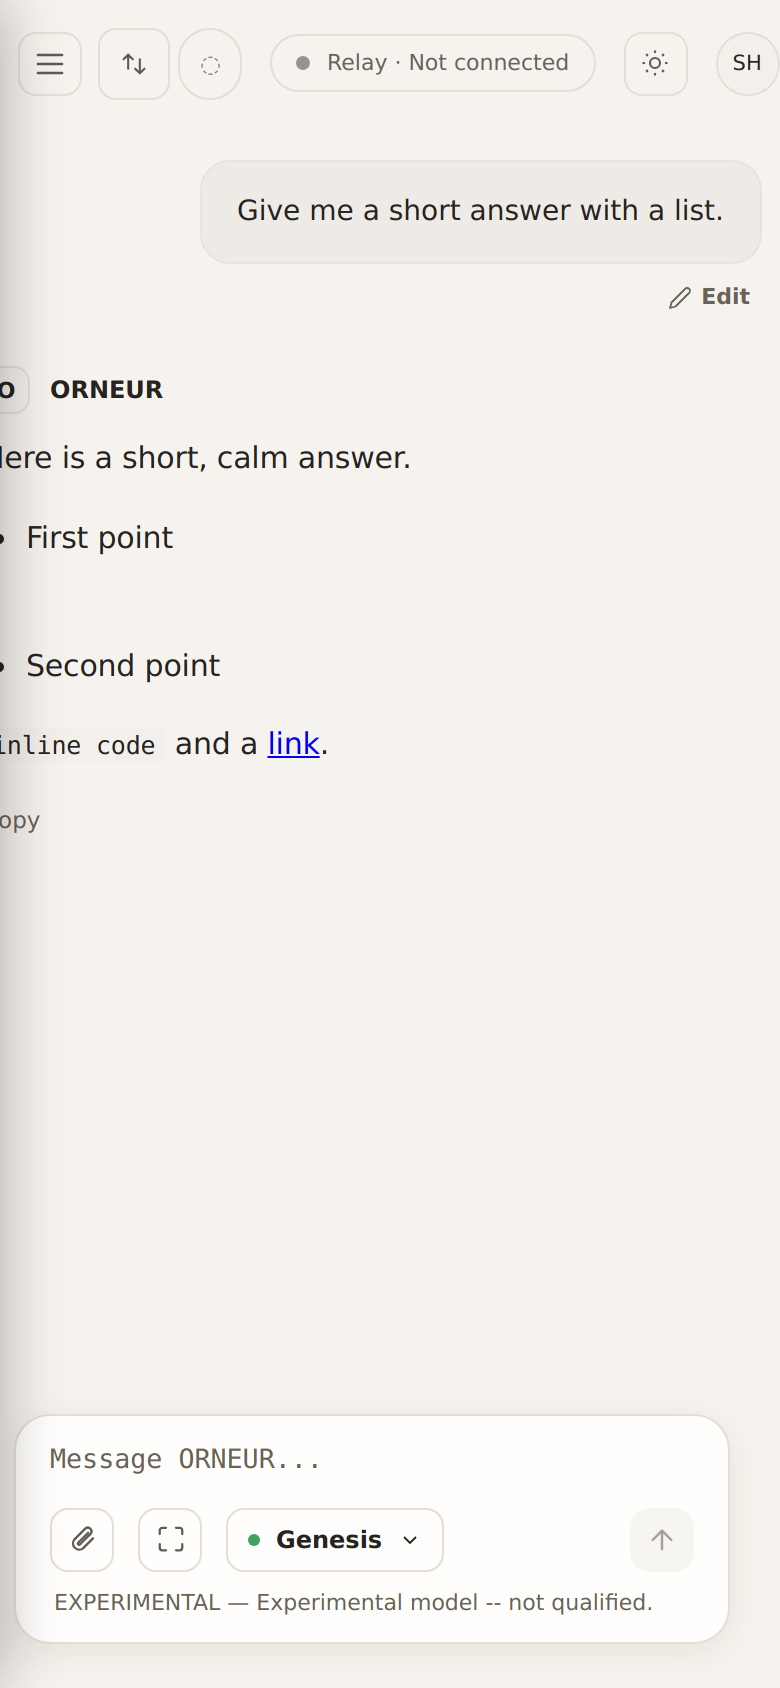
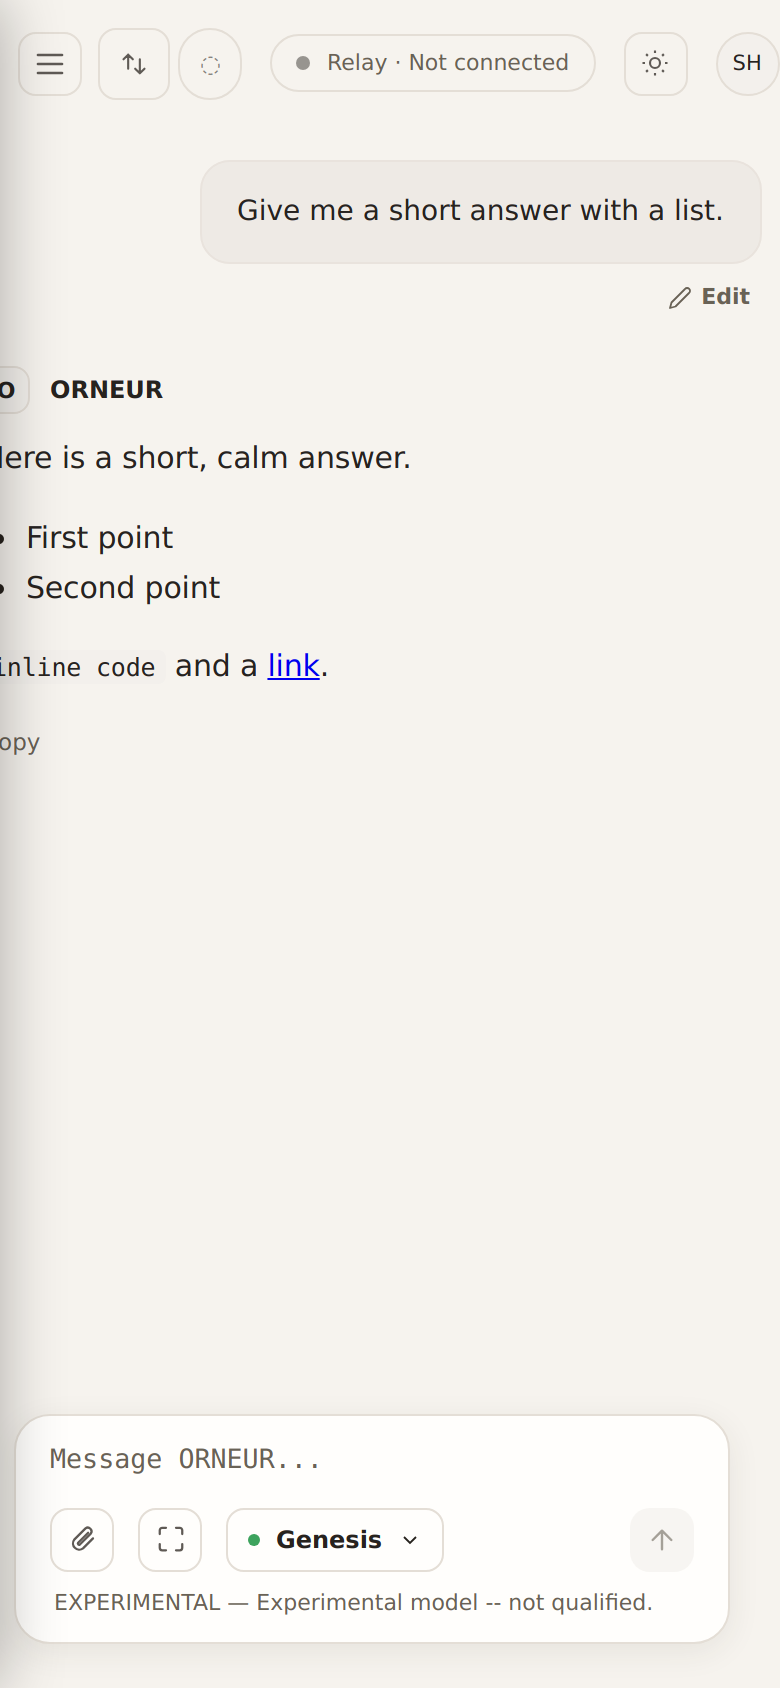
fix(p1-a): merge per-item <ul> wrappers so markdown lists render as one tight list

diff --git a/orca/serve/web/conversation.html b/orca/serve/web/conversation.html
@@ -980,7 +980,7 @@ function mdToHtml(md, sources) {
   h = h.replace(new RegExp(`${nonce}(\\d+)${nonce}`, 'g'), (_, i) => codeStore[Number(i)]);
   h = h.replace(/\n\n/g, '</p><p>');
   h = h.replace(/\n/g, '<br>');
-  h = h.replace(/<\/li><br>(?=<li>)/g, '</li>').replace(/<ul><br>/g, '<ul>').replace(/<br><\/ul>/g, '</ul>'); // list items are block rows; the newline between them is not a line break
+  h = h.replace(/<\/ul>(?:<br>)?<ul>/g, '').replace(/<\/li><br>(?=<li>)/g, '</li>').replace(/<ul><br>/g, '<ul>').replace(/<br><\/ul>/g, '</ul>'); // list items are block rows; the newline between them is not a line break
   return `<p>${h}</p>`
     .replace(/<p><\/p>/g, '')
     .replace(/<p>(<(?:pre|ul|ol|h[123])>)/g, '$1')

diff --git a/tests/journey/browser_p1_xss.py b/tests/journey/browser_p1_xss.py
@@ -83,7 +83,7 @@ with sync_playwright() as pw:
         injected = page.evaluate("() => document.querySelectorAll('#recents-list img, #recents-list script, #recents-list svg[onload], #recents-list [onerror]').length")
         report("X5_sidebar_title_is_escaped", injected == 0 and not page.evaluate("() => window.__pwned || null"), f"injected elements: {injected}")
         lst = page.evaluate("() => mdToHtml('- first\\n- second\\n\\ntext')")
-        report("X8_lists_render_as_tight_rows", "<br>" not in lst.split("</ul>")[0], lst)
+        report("X8_lists_render_as_one_tight_list", lst.count("<ul>") == 1 and "<br>" not in lst.split("</ul>")[0], lst)
         report("X6_no_uncaught_page_errors", not errors, "; ".join(errors)[:400])
     except Exception as exc:
         report("X0_driver", False, f"{type(exc).__name__}: {str(exc)[:600]}")
